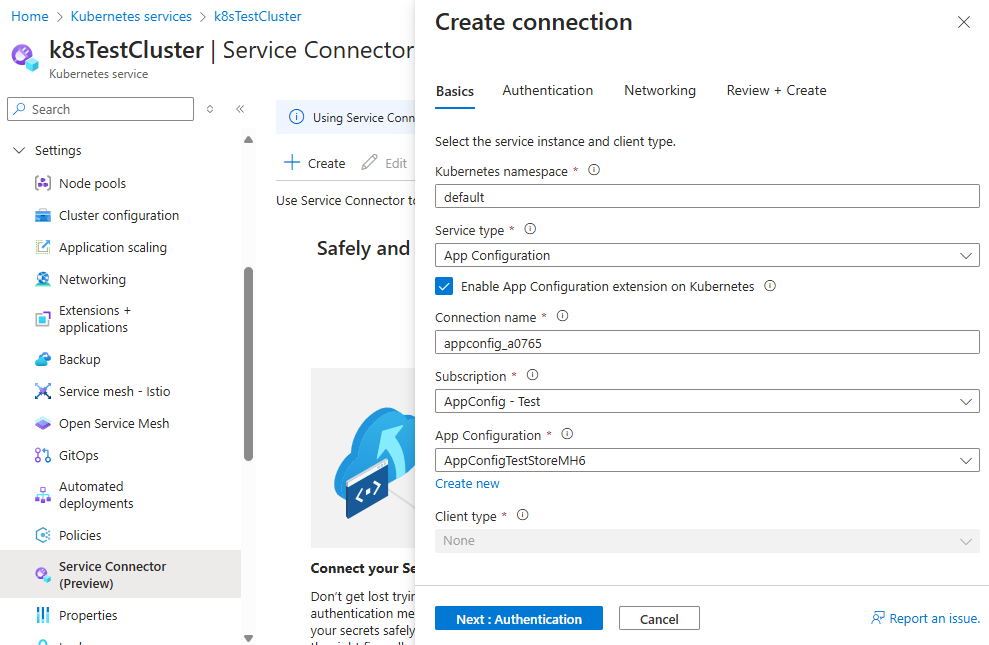
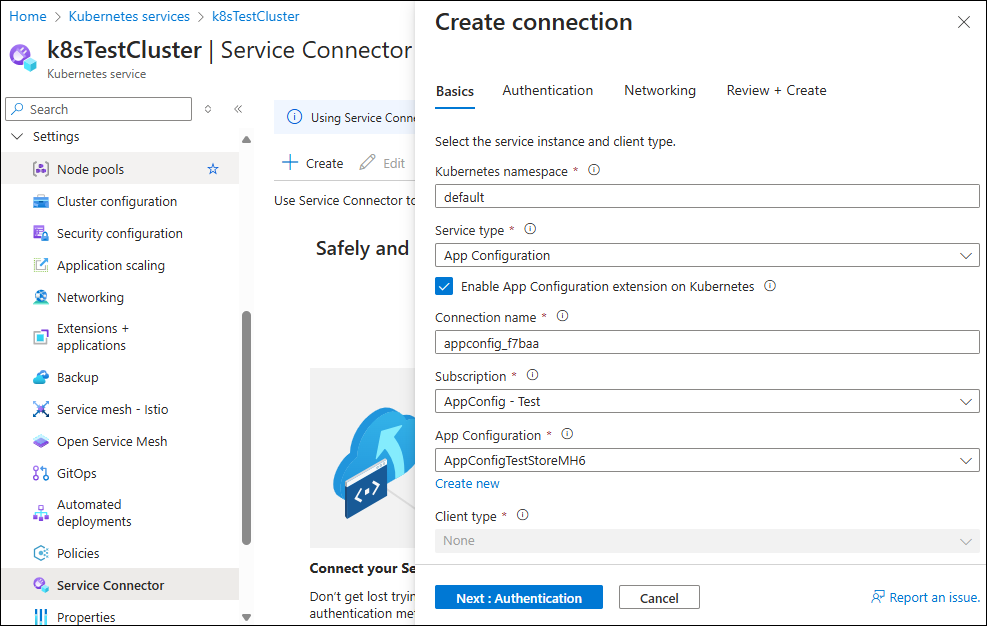
Resolve comments

diff --git a/articles/aks/azure-app-configuration-quickstart.md b/articles/aks/azure-app-configuration-quickstart.md
@@ -9,9 +9,14 @@ ms.subservice: aks-developer
 ms.date: 10/10/2024
 ---
 
-# Build ConfigMap by Azure App Configuration extension to configure workload in Azure Kubernetes Service (AKS)
+# Quickstart: Manage ConfigMap and Secrets with Azure App Configuration
 
-Typically, ConfigMap is used to configure workloads in AKS. [Azure App Configuration](/azure/azure-app-configuration/overview) provides a service to centrally manage application settings and feature flags. Following this tutorial, you will learn how to source the configuration data from Azure App Configuration into a ConfigMap and use it to configure your workload in AKS.
+You can externalize the configurations of your Azure Kubernetes Service (AKS) workloads and manage them in [Azure App Configuration](/azure/azure-app-configuration/overview). The [Azure App Configuration Kubernetes provider](https://mcr.microsoft.com/artifact/mar/azure-app-configuration/kubernetes-provider/about) runs as container in your cluster. Key benefits include:
+
+   - **Seamless integration**: Pulls data from Azure App Configuration and Key Vault, making them accessible as ConfigMap and Secret without code changes in your workloads.
+   - **Dynamic update**: Built-in caching and refreshing capabilities for dynamic configuration, feature flagging, and automatic secret rotation.
+
+The Azure App Configuration Kubernetes provider is available as an AKS extension. By following this document, you can easily install the extension and connect your AKS cluster with an App Configuration store using the Service Connector in the Azure portal. For information on setting up the provider using Helm, see the [Quickstart for Azure App Configuration Kubernetes provider](/azure/azure-app-configuration/quickstart-azure-kubernetes-service).
 
 ## Prerequisites
 
@@ -24,7 +29,7 @@ Create a service connection between your AKS cluster and your App Configuration 
 
 1. In the [Azure portal](https://portal.azure.com), navigate to your AKS cluster resource.
 
-1. Select **Settings** > **Service Connector (Preview)** > **Create**.
+1. Select **Settings** > **Service Connector** > **Create**.
 
 1. On the Basics tab, configure the following settings:
    
@@ -53,7 +58,7 @@ Create a service connection between your AKS cluster and your App Configuration 
 
 Now that you created a connection between your AKS cluster and the App Configuration store, you need to use the connection to create a ConfigMap with the configuration data from the App Configuration store.
 
-1. In the [Azure portal](https://portal.azure.com), navigate to your AKS cluster resource and select **Service Connector (Preview)**.
+1. In the [Azure portal](https://portal.azure.com), navigate to your AKS cluster resource and select **Service Connector**.
 
 1. Select the newly created connection, and then select **Yaml snippet**.
 
